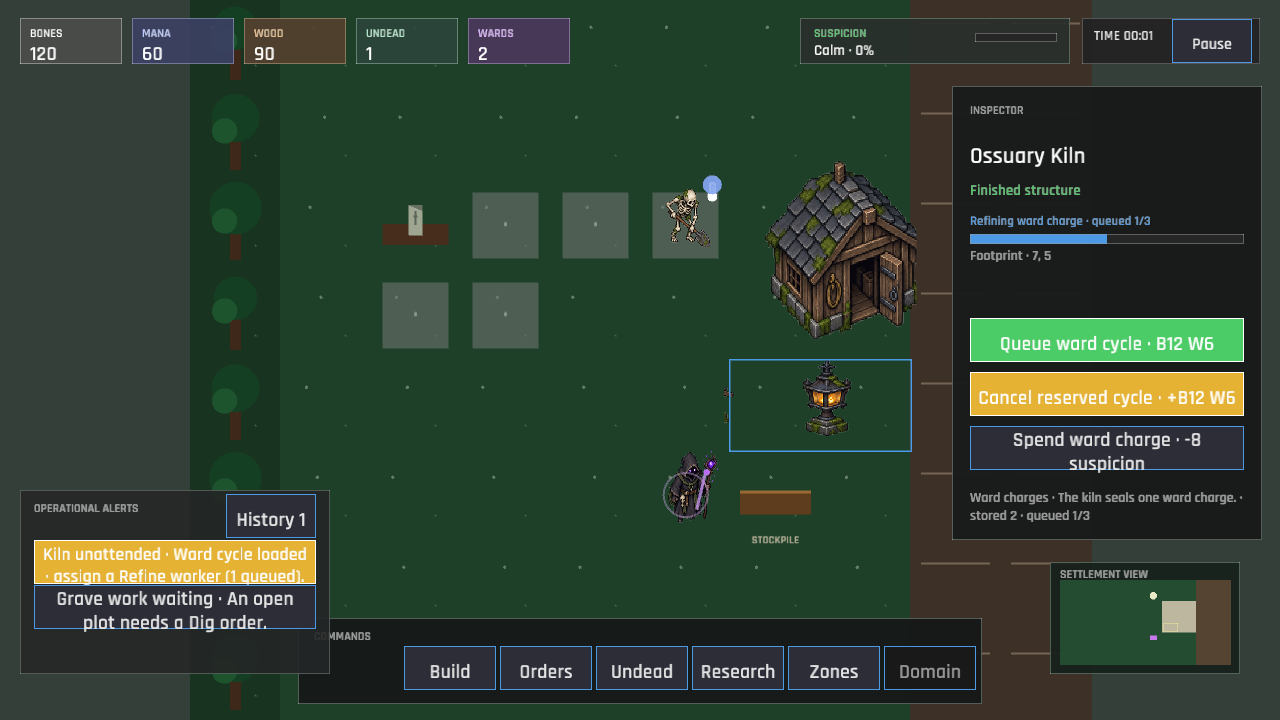
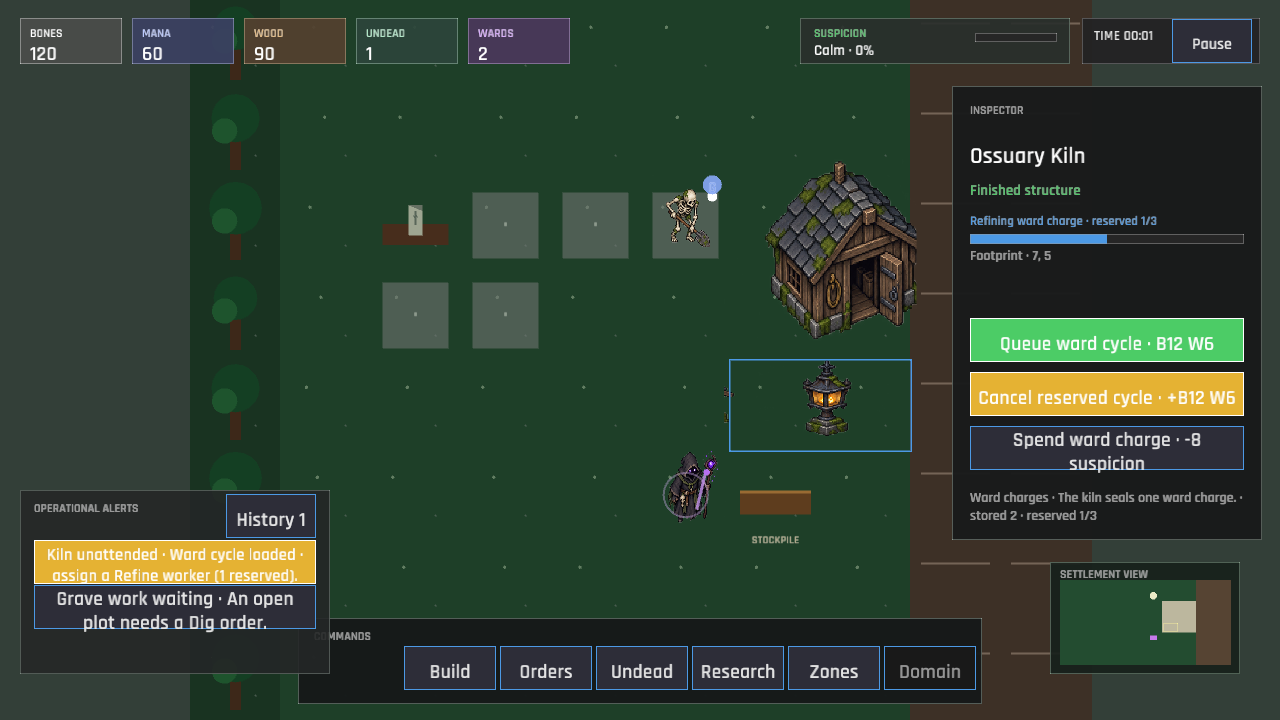
The kiln names its waiting wards plainly (reserved cycle labels)
The kiln inspector, progress line, and unattended alert now use reserved-cycle wording consistently. Refreshed the production verification capture to show the clearer terminology in context.\n\nCo-Authored-By: OpenAI Codex <noreply@openai.com>

Changed region(s): [[0.0312, 0.7639, 0.25, 0.825], [0.8438, 0.275, 0.9062, 0.3361], [0.8125, 0.7028, 0.875, 0.7333]]

diff --git a/src/ui/hud.rs b/src/ui/hud.rs
@@ -606,7 +606,7 @@ fn draw_building_inspector(
                 .map_or(8.0, |recipe| recipe.seconds);
             draw_text_block(
                 &format!(
-                    "Refining ward charge · queued {}/{}",
+                    "Refining ward charge · reserved {}/{}",
                     ctx.session.progress.production_queue,
                     crate::engine::progression::MAX_PRODUCTION_QUEUE
                 ),

diff --git a/src/engine/alerts.rs b/src/engine/alerts.rs
@@ -125,7 +125,7 @@ fn collect_production_alert(session: &GameSession, alerts: &mut Vec<OperationalA
         AlertSeverity::Warning,
         "Kiln unattended",
         format!(
-            "Ward cycle loaded · assign a Refine worker ({} queued).",
+            "Ward cycle loaded · assign a Refine worker ({} reserved).",
             session.progress.production_queue
         ),
         target.map(Selection::Building),

diff --git a/src/ui/production.rs b/src/ui/production.rs
@@ -81,7 +81,7 @@ pub(super) fn draw_kiln_inspector(
     }
     draw_text_block(
         &format!(
-            "Ward charges · {} · stored {} · queued {}/{}",
+            "Ward charges · {} · stored {} · reserved {}/{}",
             recipe.effect_text,
             ctx.session.economy.ward_charges,
             queued,
